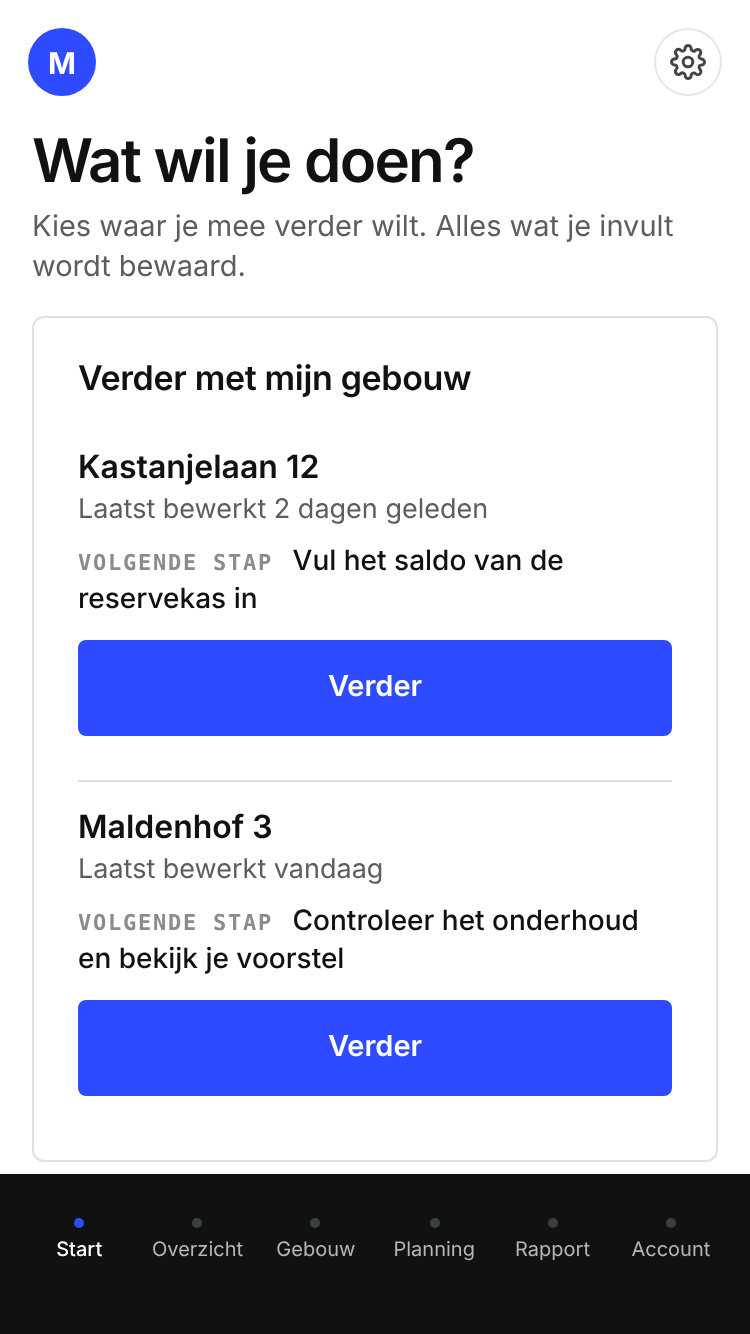
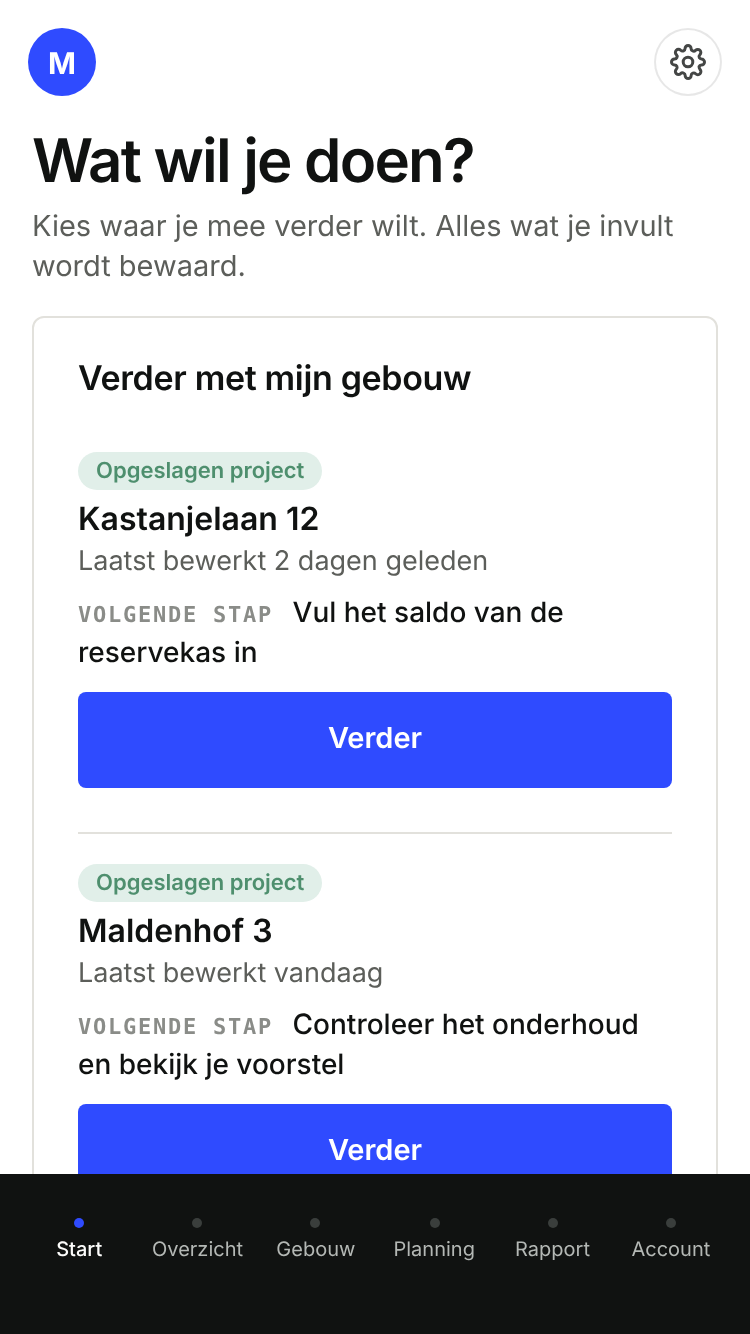
Fix: laadscherm bij 'Nieuw MJOP maken' bleef staan na het kiezen van een adres
Oorzaak: lookupBuilding() deed fetches zonder tijdslimiet. Antwoordt een bron (vooral de 3D BAG) niet, dan blijft de laatste laadtekst
('Dakoppervlak, gevels en hoogte berekenen uit de 3D BAG…') eeuwig staan en komt applyBuilding()/de wizard nooit aan de beurt.

- Tijdslimiet per bron (PDOK 10 s, BAG 12 s, 3D BAG 8 s) en totaal 30 s; de 3D BAG is aanvullend: zonder antwoord gaat het door met de schatting
  uit het grondvlak en meldt stap 1 dat eerlijk
- Time-out geeft een duidelijke melding en een bruikbaar zoekveld; 'Annuleren' tijdens het zoeken; een laat antwoord na annuleren/time-out
  overschrijft niets meer (lookupNr)
- render(): een fout bij het opbouwen of patchen van een scherm toont nu een melding met 'Terug naar Start' resp. valt terug op innerHTML,
  i.p.v. het vorige scherm te laten staan
- Start: 'Opgeslagen project' en 'Nieuw, nog niet opgeslagen' zijn duidelijk te onderscheiden
- test/lookup-laden.spec.js (iPhone-WebView-UA + brug): trage 3D BAG, hangende 3D BAG/BAG/PDOK, annuleren, verwarring met opgeslagen project, render-terugval

Claude-Session: https://claude.ai/code/session_01GYBR75Fb7Wtgfy81KxCUeB

Changed region(s): [[0.092, 0.3381, 0.92, 0.8913]]

diff --git a/test/lookup-laden.spec.js b/test/lookup-laden.spec.js
@@ -1,0 +1,179 @@
+'use strict';
+// Browsertest: laden na het kiezen van een adres bij 'Nieuw MJOP maken': het laadscherm verdwijnt altijd en de gebruiker komt automatisch bij 'Is dit je gebouw?'.
+// Echte supabase-js met een nagebootst Supabase-netwerk; ingelogd via een vooraf gezette sessie in de opslag.
+//   python3 -m http.server 8964 &  ;  MJOP_TEST_BASE=http://localhost:8964/ MJOP_SUPABASE_SDK=/pad/supabase.js node test/lookup-laden.spec.js
+let chromium;
+try { chromium = require('playwright').chromium; } catch (e) { chromium = require('/opt/node22/lib/node_modules/playwright').chromium; }
+var fs = require('fs');
+var BASE = process.env.MJOP_TEST_BASE || 'http://localhost:8964/';
+var CHROMIUM_PATH = process.env.MJOP_CHROMIUM || '/opt/pw-browsers/chromium';
+var SDK_URL = 'https://cdn.jsdelivr.net/npm/@supabase/supabase-js@2.116.0/dist/umd/supabase.js';
+var SDK_FILE = process.env.MJOP_SUPABASE_SDK || null;
+var SHOTS = process.env.MJOP_SHOTS || null;
+var TEST_HOST = 'testproject0000000000.supabase.co';
+var TEST_CONFIG = "window.SUPABASE_CONFIG = { url: 'https://" + TEST_HOST + "', anonKey: 'sb_publishable_TESTKEYabcdefghijklmnop' };";
+var CORS = { 'access-control-allow-origin': '*', 'access-control-allow-headers': '*', 'access-control-allow-methods': 'GET,POST,PUT,PATCH,DELETE,OPTIONS' };
+var checks = [];
+function check(name, ok, detail) { checks.push([name, !!ok, detail]); }
+function b64u(o) { return Buffer.from(JSON.stringify(o)).toString('base64').replace(/=+$/, '').replace(/\+/g, '-').replace(/\//g, '_'); }
+function session() {
+  var jwt = b64u({ alg: 'HS256' }) + '.' + b64u({ sub: 'u1', role: 'authenticated', exp: Math.floor(Date.now() / 1000) + 3600 }) + '.c2ln';
+  return { access_token: jwt, token_type: 'bearer', expires_in: 3600, expires_at: Math.floor(Date.now() / 1000) + 3600, refresh_token: 'r-abc',
+    user: { id: 'u1', aud: 'authenticated', role: 'authenticated', email: 'test@example.org', app_metadata: {}, user_metadata: {}, created_at: '2026-01-01T00:00:00Z' } };
+}
+var daysAgo = function (n) { return new Date(Date.now() - n * 86400000).toISOString(); };
+
+async function newPage(ctx, o) {
+  o = o || {};
+  var page = await ctx.newPage(), st = { errors: [], plansUrls: [] };
+  page.on('pageerror', function (e) { st.errors.push(String(e)); });
+  await page.route(/^https?:\/\/(?!localhost)/, function (route) {
+    var req = route.request(), url = req.url();
+    if (url === SDK_URL) return SDK_FILE ? route.fulfill({ status: 200, contentType: 'application/javascript', body: fs.readFileSync(SDK_FILE), headers: { 'access-control-allow-origin': '*' } }) : route.continue();
+    if (url.indexOf('https://' + TEST_HOST + '/') === 0) {
+      if (req.method() === 'OPTIONS') return route.fulfill({ status: 204, headers: CORS });
+      var j = function (status, body) { return route.fulfill({ status: status, contentType: 'application/json', headers: CORS, body: JSON.stringify(body) }); };
+      if (/\/auth\/v1\/user/.test(url)) return j(200, session().user);
+      if (/\/rest\/v1\/saved_plans/.test(url)) {
+        st.plansUrls.push(url);
+        if (/[?&]id=eq\./.test(url)) return j(200, { id: 'p1', state: o.blob });
+        if (o.rejectAlias && /invul/.test(url)) return j(400, { message: 'column not found' });
+        return j(200, o.plans || []);
+      }
+      if (/\/rest\/v1\//.test(url)) return j(200, null);
+      return j(200, {});
+    }
+    return route.abort();
+  });
+  await page.route('**/src/config.js', function (route) { route.fulfill({ status: 200, contentType: 'application/javascript', body: TEST_CONFIG }); });
+  var lon = 4.9, lat = 52.37, d = 0.0001;
+  await page.route('**/locatieserver/search/v3_1/suggest**', function (r) { r.fulfill({ contentType: 'application/json', body: JSON.stringify({ response: { docs: [{ id: 'adr-1', weergavenaam: 'Teststraat 1, 1000AA Amsterdam' }] } }) }); });
+  await page.route('**/locatieserver/search/v3_1/lookup**', function (r) {
+    if (o.mode && o.mode.pdok === 'hang') return;
+    if (o.mode && o.mode.pdok === 'slow') return setTimeout(function () { r.fulfill({ contentType: 'application/json', body: JSON.stringify({ response: { docs: [{ weergavenaam: 'Teststraat 1, 1000AA Amsterdam', centroide_ll: 'POINT(4.9 52.37)' }] } }) }); }, 2000); r.fulfill({ contentType: 'application/json', body: JSON.stringify({ response: { docs: [{ weergavenaam: 'Teststraat 1, 1000AA Amsterdam', centroide_ll: 'POINT(' + lon + ' ' + lat + ')' }] } }) }); });
+  await page.route('**/kadaster/bag/ogc/v2/collections/pand/items**', function (r) {
+    if (o.mode && o.mode.bag === 'hang' && !o.state.fixed) return;
+    var ring = [[lon - d, lat - d], [lon + d, lat - d], [lon + d, lat + d], [lon - d, lat + d], [lon - d, lat - d]];
+    r.fulfill({ contentType: 'application/json', body: JSON.stringify({ features: [{ geometry: { type: 'Polygon', coordinates: [ring] }, properties: { identificatie: '0363100012345678', bouwjaar: 1972, gebruiksdoel: 'woonfunctie', aantal_verblijfsobjecten: 12 } }] }) });
+  });
+  await page.route('**/api.3dbag.nl/**', function (r) {
+    if (o.mode && o.mode.d3 === 'hang') return;
+    if (o.mode && o.mode.d3 === 'slow') return setTimeout(function () { r.fulfill({ contentType: 'application/json', body: JSON.stringify({ feature: { CityObjects: { 'NL.IMBAG.Pand.0363100012345678': { attributes: { b3_opp_dak_plat: 312.64, b3_opp_dak_schuin: 0, b3_opp_buitenmuur: 1099.7, b3_opp_grond: 318.2, b3_bouwlagen: 4, b3_dak_type: 'horizontal', b3_h_dak_max: 13.4, b3_h_maaiveld: 0.6 } } } } }) }); }, 2500);
+    r.fulfill({ contentType: 'application/json', body: JSON.stringify({ feature: { CityObjects: { 'NL.IMBAG.Pand.0363100012345678': { attributes: { b3_opp_dak_plat: 312.64, b3_opp_dak_schuin: 0, b3_opp_buitenmuur: 1099.7, b3_opp_grond: 318.2, b3_bouwlagen: 4, b3_dak_type: 'horizontal', b3_h_dak_max: 13.4, b3_h_maaiveld: 0.6 } } } } }) });
+  });
+  if (o.loggedIn) await page.addInitScript(function (s) { try { localStorage.setItem('sb-testproject0000000000-auth-token', JSON.stringify(s)); } catch (e) {} }, session());
+  return { page: page, st: st };
+}
+async function text(page) { return page.evaluate(function () { return document.body.innerText; }); }
+async function shot(page, name) { if (SHOTS) await page.screenshot({ path: SHOTS + '/' + name + '.png' }); }
+async function fresh(page) { await page.evaluate(function () { sessionStorage.clear(); }); await page.goto(BASE + 'index.html'); await page.waitForTimeout(900); }
+async function click(page, sel) { await page.evaluate(function (s) { var e = document.querySelector(s); if (e) e.click(); }, sel); await page.waitForTimeout(250); }
+
+
+var UA = 'Mozilla/5.0 (iPhone; CPU iPhone OS 17_0 like Mac OS X) AppleWebKit/605.1.15 (KHTML, like Gecko) Mobile/15E148 MJOPLiveApp/1';
+var PLANS = [{ id: 'p1', label: 'Teststraat 1, 1000AA Amsterdam', adres: 'Teststraat 1, 1000AA Amsterdam', updated_at: new Date().toISOString(), invul: { fonds: true, bijdrage: true } }];
+var LOADER = /Pand opzoeken|Bouwjaar en appartementen|Dakoppervlak, gevels en hoogte/;
+
+// Opent de app (iPhone-WebView: app-UA + brug) op de adreszoeker van "Nieuw MJOP maken" en kiest het adres.
+async function openAndPick(browser, o, limits) {
+  var ctx = await browser.newContext({ viewport: { width: 390, height: 844 }, isMobile: true, hasTouch: true, userAgent: UA });
+  o.state = o.state || {};
+  var a = await newPage(ctx, Object.assign({ loggedIn: true, plans: PLANS }, o));
+  var page = a.page;
+  await page.addInitScript(function (l) { window.webkit = { messageHandlers: { mjopNative: { postMessage: function () {} } } }; if (l) window.__mjopLookupMs = l; }, limits || null);
+  await page.goto(BASE + 'index.html'); await page.waitForTimeout(800);
+  await click(page, '[data-act=wizard-start]');
+  await page.fill('#addr-search', 'Teststraat 1'); await page.dispatchEvent('#addr-search', 'input');
+  await page.waitForSelector('.suggest-row', { timeout: 5000 });
+  await page.evaluate(function () { document.querySelector('.suggest-row').click(); });
+  return { ctx: ctx, page: page, a: a };
+}
+
+async function main() {
+  var browser = await chromium.launch({ executablePath: CHROMIUM_PATH });
+  var t;
+
+  // A. trage maar succesvolle 3D BAG (> 1,8 s, dus de laatste laadtekst verschijnt): daarna verdwijnt het laadscherm vanzelf
+  var r = await openAndPick(browser, { mode: { d3: 'slow' } });
+  await r.page.waitForTimeout(2200);
+  t = await text(r.page);
+  check('A. onderweg: laadtekst "Dakoppervlak, gevels en hoogte berekenen…" zichtbaar', /Dakoppervlak, gevels en hoogte/.test(t));
+  await r.page.waitForSelector('.wz-voortgang', { timeout: 8000 });
+  t = await text(r.page);
+  check('A. daarna verdwijnt het laadscherm automatisch', !LOADER.test(t), t.slice(0, 120));
+  check('A. automatisch naar "Is dit je gebouw?" met adres en gegevens (zonder extra tik)', /Is dit je gebouw\?/.test(t) && /Teststraat 1/.test(t) && /Stap 1 van 4/i.test(t) && /Uit de BAG/i.test(t));
+  check('A. geen melding "geen 3D BAG" als de 3D BAG wel antwoordde', !(await r.page.$('[data-wz-geen-3d]')));
+  var st = await r.page.evaluate(function () { return JSON.parse(sessionStorage.getItem('mjop-worksessie')); });
+  check('A. werkstand: scherm app, tab wizard, stap 1, gebouw staat in het plan', st.screen === 'app' && st.tab === 'wizard' && st.plan.wizard && st.plan.wizard.stap === 1 && /Teststraat 1/.test(st.plan.building.adres), JSON.stringify([st.screen, st.tab]));
+  await click(r.page, '[data-act=wizard-volgende]');
+  check('A. bevestigen gaat door naar stap 2', /Controleer je gebouw/.test(await text(r.page)));
+  check('A. geen JavaScript-fouten', r.a.st.errors.length === 0, r.a.st.errors.join('; '));
+  await r.ctx.close();
+
+  // B. 3D BAG antwoordt nooit: na de tijdslimiet toch "Is dit je gebouw?" met een eerlijke melding
+  r = await openAndPick(browser, { mode: { d3: 'hang' } }, { d3: 1200 });
+  await r.page.waitForSelector('.wz-voortgang', { timeout: 8000 });
+  t = await text(r.page);
+  check('B. 3D BAG hangt: laadscherm verdwijnt en "Is dit je gebouw?" verschijnt', !LOADER.test(t) && /Is dit je gebouw\?/.test(t));
+  check('B. eerlijke melding: 3D BAG gaf geen gegevens, dak en gevel geschat', !!(await r.page.$('[data-wz-geen-3d]')) && /geschat uit het grondvlak/.test(t));
+  await r.page.screenshot({ path: (process.env.MJOP_SHOTS || '/tmp') + '/laden-3dbag-hangt.png' });
+  await r.ctx.close();
+
+  // C. BAG-pand hangt: duidelijke foutmelding, laadscherm weg, opnieuw proberen werkt
+  var o = { mode: { bag: 'hang' }, state: { fixed: false } };
+  r = await openAndPick(browser, o, { bag: 1000 });
+  await r.page.waitForSelector('.notice.error', { timeout: 8000 });
+  t = await text(r.page);
+  check('C. BAG hangt: foutmelding "duurt te lang", geen laadscherm meer', /duurt te lang/.test(t) && !LOADER.test(t), t.slice(0, 200));
+  check('C. zoekveld blijft bruikbaar', !!(await r.page.$('#addr-search')));
+  o.state.fixed = true;
+  await r.page.fill('#addr-search', 'Teststraat 1'); await r.page.dispatchEvent('#addr-search', 'input');
+  await r.page.waitForSelector('.suggest-row', { timeout: 5000 });
+  await r.page.evaluate(function () { document.querySelector('.suggest-row').click(); });
+  await r.page.waitForSelector('.wz-voortgang', { timeout: 8000 });
+  check('C. opnieuw proberen lukt en brengt bij "Is dit je gebouw?"', /Is dit je gebouw\?/.test(await text(r.page)));
+  await r.ctx.close();
+
+  // D. alles hangt: totale tijdslimiet
+  r = await openAndPick(browser, { mode: { pdok: 'hang' } }, { pdok: 60000, totaal: 1500 });
+  await r.page.waitForSelector('.notice.error', { timeout: 8000 });
+  check('D. totale tijdslimiet: melding i.p.v. eeuwig laden', /duurt te lang/.test(await text(r.page)) && !LOADER.test(await text(r.page)));
+  await r.ctx.close();
+
+  // E. annuleren: een later binnenkomend antwoord overschrijft niets
+  r = await openAndPick(browser, { mode: { pdok: 'slow' } });
+  await r.page.waitForSelector('[data-act=annuleer-zoeken]', { timeout: 3000 });
+  await click(r.page, '[data-act=annuleer-zoeken]');
+  check('E. annuleren: laadscherm weg, zoekveld terug', !LOADER.test(await text(r.page)) && !!(await r.page.$('#addr-search')));
+  await r.page.waitForTimeout(4500);
+  t = await text(r.page);
+  check('E. een laat antwoord na annuleren verandert niets (geen wizard, nog op het adresscherm)', !(await r.page.$('.wz-voortgang')) && !!(await r.page.$('#addr-search')), t.slice(0, 100));
+  await r.ctx.close();
+
+  // F. gevonden gebouw (nog niet opgeslagen) wordt niet verward met een opgeslagen project met hetzelfde adres
+  r = await openAndPick(browser, {});
+  await r.page.waitForSelector('.wz-voortgang', { timeout: 8000 });
+  await click(r.page, '[data-act=wizard-stop]');
+  var badges = await r.page.evaluate(function () { return Array.prototype.slice.call(document.querySelectorAll('[data-st-soort]')).map(function (e) { return e.dataset.stSoort + ':' + e.textContent.trim(); }); });
+  check('F. Start toont het nieuwe gebouw apart: "Nieuw, nog niet opgeslagen" naast "Opgeslagen project"', badges.length === 2 && badges.some(function (b) { return /^nieuw:Nieuw, nog niet opgeslagen/.test(b); }) && badges.some(function (b) { return /^opgeslagen:Opgeslagen project/.test(b); }), JSON.stringify(badges));
+  t = await text(r.page);
+  check('F. het nieuwe gebouw biedt het hervatten van de stappen, het opgeslagen project niet', /Ga verder met de begeleide stappen \(stap 1 van 4/i.test(t));
+  await r.ctx.close();
+
+  // G. render-terugval: faalt het bijwerken van de DOM, dan wordt het nieuwe scherm toch getoond
+  var ctx = await browser.newContext({ viewport: { width: 390, height: 844 }, isMobile: true, hasTouch: true, userAgent: UA });
+  var g = await newPage(ctx, { loggedIn: true, plans: [], state: {} });
+  await g.page.addInitScript(function () { window.webkit = { messageHandlers: { mjopNative: { postMessage: function () {} } } }; });
+  await g.page.goto(BASE + 'index.html'); await g.page.waitForTimeout(800);
+  await g.page.evaluate(function () { var orig = window.MJOPDomPatch.patch; var n = 0; window.MJOPDomPatch.patch = function (a, b) { if (n++ === 0) throw new Error('patch kapot'); return orig(a, b); }; });
+  await click(g.page, '[data-act=wizard-start]');
+  check('G. patch faalt eenmalig: het nieuwe scherm (adreszoeker) staat er toch', !!(await g.page.$('#addr-search')) && /Stap 1 van 4/i.test(await text(g.page)));
+  await ctx.close();
+
+  await browser.close();
+  var failed = checks.filter(function (c) { return !c[1]; });
+  checks.forEach(function (c) { console.log((c[1] ? 'OK   - ' : 'FAIL - ') + c[0] + (c[1] ? '' : ' [' + c[2] + ']')); });
+  console.log(failed.length ? failed.length + ' controle(s) mislukt.' : 'Alle controles geslaagd.');
+  process.exit(failed.length ? 1 : 0);
+}
+main().catch(function (e) { console.error(e); process.exit(2); });

diff --git a/src/app.js b/src/app.js
@@ -324,10 +324,30 @@
     });
   }
 
+  // Maximale wachttijd per bron (ms). Een verzoek dat nooit antwoordt (trage verbinding in de WebView, hangende server) liet het laadscherm
+  // eeuwig staan; nu loopt elke stap af. De 3D BAG is aanvullend: zonder antwoord rekent de app met de schatting uit het grondvlak.
+  function lookupLimits() {
+    var o = (typeof window !== 'undefined' && window.__mjopLookupMs) || {};
+    return { pdok: o.pdok || 10000, bag: o.bag || 12000, d3: o.d3 || 8000, totaal: o.totaal || 30000 };
+  }
+  // JSON ophalen met tijdslimiet over het hele verzoek (incl. lezen van de body). nullOnHttpError: HTTP-fout geeft null i.p.v. een fout.
+  function fetchJsonTimeout(url, ms, nullOnHttpError) {
+    return new Promise(function (resolve, reject) {
+      var ctl = typeof AbortController === 'function' ? new AbortController() : null;
+      var klaar = false;
+      var t = setTimeout(function () { if (klaar) return; klaar = true; try { if (ctl) ctl.abort(); } catch (e) {} reject(new Error('timeout')); }, ms);
+      fetch(url, ctl ? { signal: ctl.signal } : undefined).then(function (r) {
+        if (!r.ok && nullOnHttpError) return null;
+        return r.json();
+      }).then(function (j) { if (klaar) return; klaar = true; clearTimeout(t); resolve(j); },
+        function (e) { if (klaar) return; klaar = true; clearTimeout(t); reject(e); });
+    });
+  }
+
   function lookupBuilding(id, naam) {
-    return fetch('https://api.pdok.nl/bzk/locatieserver/search/v3_1/lookup?id='
-      + encodeURIComponent(id) + '&fl=weergavenaam,centroide_ll,postcode,woonplaatsnaam')
-      .then(function (r) { return r.json(); })
+    var lim = lookupLimits();
+    return fetchJsonTimeout('https://api.pdok.nl/bzk/locatieserver/search/v3_1/lookup?id='
+      + encodeURIComponent(id) + '&fl=weergavenaam,centroide_ll,postcode,woonplaatsnaam', lim.pdok)
       .then(function (lj) {
         var doc = lj.response.docs[0];
         var m = /POINT\(([-0-9.]+) ([-0-9.]+)\)/.exec(doc.centroide_ll);
@@ -335,8 +355,7 @@
         var lon = parseFloat(m[1]), lat = parseFloat(m[2]);
         var d = 0.00018;
         var bbox = [lon - d, lat - d, lon + d, lat + d].join(',');
-        return fetch('https://api.pdok.nl/kadaster/bag/ogc/v2/collections/pand/items?f=json&limit=20&bbox=' + bbox)
-          .then(function (r) { return r.json(); })
+        return fetchJsonTimeout('https://api.pdok.nl/kadaster/bag/ogc/v2/collections/pand/items?f=json&limit=20&bbox=' + bbox, lim.bag)
           .then(function (pj) {
             var feats = (pj.features || []).filter(function (f) { return f.geometry; });
             if (!feats.length) throw new Error('geen pand gevonden op dit adres');
@@ -354,8 +373,7 @@
             var afterD3 = Promise.resolve(null);
             var d3RawCapture = null;
             if (p.identificatie) {
-              afterD3 = fetch('https://api.3dbag.nl/collections/pand/items/NL.IMBAG.Pand.' + p.identificatie)
-                .then(function (tr) { return tr.ok ? tr.json() : null; })
+              afterD3 = fetchJsonTimeout('https://api.3dbag.nl/collections/pand/items/NL.IMBAG.Pand.' + p.identificatie, lim.d3, true)
                 .then(function (tj) {
                   if (!tj) return null;
                   var co = tj.feature.CityObjects['NL.IMBAG.Pand.' + p.identificatie];
@@ -1524,16 +1542,31 @@
       try { focusInfo.start = active.selectionStart; focusInfo.end = active.selectionEnd; } catch (e) {}
     }
     var screen = currentScreen();
-    var mainHtml;
-    if (screen === 'marketing') mainHtml = renderMarketing();
-    else if (screen === 'login') mainHtml = renderLoginScreen();
-    else if (screen === 'onboarding') mainHtml = renderOnboarding();
-    else mainHtml = renderApp();
-    var printHtml = (screen === 'app' && state.building) ? renderPrintReport() : '';
+    var mainHtml, printHtml = '';
+    try {
+      if (screen === 'marketing') mainHtml = renderMarketing();
+      else if (screen === 'login') mainHtml = renderLoginScreen();
+      else if (screen === 'onboarding') mainHtml = renderOnboarding();
+      else mainHtml = renderApp();
+      printHtml = (screen === 'app' && state.building) ? renderPrintReport() : '';
+    } catch (e) {
+      // Een fout bij het opbouwen van een scherm liet vroeger het vorige scherm (bijv. een laadscherm) staan zonder uitleg. Nu altijd een melding met een weg terug.
+      try { console.error('render', e); } catch (e2) {}
+      mainHtml = '<div class="entry-screen"><div class="ov-card st-card" data-render-fout role="alert"><h2 class="ov-h2">Dit scherm kon niet worden getoond</h2><p class="ov-hint">Je gegevens zijn niet kwijt. Ga terug naar Start en probeer het opnieuw.</p><button type="button" class="ov-btn st-groot" data-act="render-herstel">Terug naar Start</button></div></div>';
+      printHtml = '';
+    }
     // Geen root.innerHTML = …: dat vernietigde het invoerveld waarin je typt bij elke toetsaanslag en elke resize (iOS: toetsenbord valt terug naar ABC,
     // cursor springt). MJOPDomPatch werkt de bestaande DOM bij en laat het actieve veld ongemoeid (zie src/dom-patch.js).
     lastRenderedScreen = screen;
-    var patched = window.MJOPDomPatch.patch(root, '<div class="screen-view">' + mainHtml + '</div>' + printHtml);
+    var patched;
+    try {
+      patched = window.MJOPDomPatch.patch(root, '<div class="screen-view">' + mainHtml + '</div>' + printHtml);
+    } catch (e) {
+      // Mislukt het bijwerken van de bestaande DOM (bijv. een WebView-eigenaardigheid), dan toch het nieuwe scherm tonen i.p.v. het oude te laten staan.
+      try { console.error('dom-patch', e); } catch (e2) {}
+      root.innerHTML = '<div class="screen-view">' + mainHtml + '</div>' + printHtml;
+      patched = { pendingSync: false };
+    }
     syncAfterBlur = patched.pendingSync;
     // Na elke render() alsnog tabindex/role toevoegen aan wat dat nog mist,
     // i.p.v. elke afzonderlijke data-act-plek in de render*()-functies
@@ -2126,7 +2159,7 @@
     if (s.gezocht && !s.sug.length && !s.bezig && !s.fout) {
       html += '<div class="notice">Geen adressen gevonden voor "' + esc(s.q) + '". Controleer de spelling, of bekijk eerst het voorbeeldgebouw.</div>';
     }
-    if (s.bezig) html += '<div class="notice">' + esc(s.bezigTekst) + '</div>';
+    if (s.bezig) html += '<div class="notice" data-zoeken-bezig role="status">' + esc(s.bezigTekst) + ' <span class="linkish" role="button" tabindex="0" data-act="annuleer-zoeken">Annuleren</span></div>';
     if (s.fout) html += '<div class="notice error">' + esc(s.fout) + '</div>';
 
     html += '<div class="entry-alt">';
@@ -3055,7 +3088,7 @@
   function startProjectRij(pr, na, knop) {
     if (!na && pr.wizard) na = 'wizard';
     var html = '<div class="st-proj">';
-    html += '<div class="st-proj-tekst"><div class="st-proj-adres">' + esc(pr.adres) + '</div>';
+    html += '<div class="st-proj-tekst"><span class="st-badge ' + (pr.id ? 'opgeslagen' : 'nieuw') + '" data-st-soort="' + (pr.id ? 'opgeslagen' : 'nieuw') + '">' + (pr.id ? 'Opgeslagen project' : 'Nieuw, nog niet opgeslagen') + '</span><div class="st-proj-adres">' + esc(pr.adres) + '</div>';
     html += '<div class="st-proj-meta">' + (pr.bijgewerkt ? 'Laatst bewerkt ' + esc(relatieveDatum(pr.bijgewerkt)) : 'Nog niet opgeslagen') + '</div>';
     html += '<div class="st-proj-volgende"><span>Volgende stap</span> ' + esc(volgendeStapTekst(pr.plan)) + '</div></div>';
     if (pr.id) html += '<button type="button" class="ov-btn st-proj-knop" data-act="open-plan" data-id="' + pr.id + '"' + (na ? ' data-na="' + na + '"' : '') + '>' + knop + '</button>';
@@ -3176,6 +3209,7 @@
       html += feitRij('Appartementen', String(b.units), vb ? 'voorbeeld' : (b.unitsBron != null && b.units !== b.unitsBron ? 'zelf' : 'bekend'));
       html += feitRij('Dakoppervlak', b.dakM2 ? Math.round(b.dakM2) + ' m²' : '—', b.dakM2 ? (vb ? 'voorbeeld' : 'geschat') : 'onbekend');
       html += feitRij('Gevel', b.gevelM2 ? Math.round(b.gevelM2) + ' m²' : '—', b.gevelM2 ? (vb ? 'voorbeeld' : 'geschat') : 'onbekend');
+      if (!vb && !b.d3) html += '<p class="ov-hint" data-wz-geen-3d>De 3D BAG gaf geen gegevens voor dit pand (of antwoordde niet op tijd). Dak en gevel zijn daarom geschat uit het grondvlak.</p>';
       html += '</section>';
       html += '<div class="wz-voet"><button type="button" class="ov-btn st-groot" data-act="wizard-volgende">Ja, dit is mijn gebouw</button>';
       html += '<button type="button" class="ov-btn secondary st-groot" data-act="wijzig-adres">Ander adres zoeken</button></div>';
@@ -4909,6 +4943,10 @@
     // Het live-doorzoeken tijdens het typen (BINDS['addr-q']) blijft de
     // eigenlijke weg naartoe; dit is enkel de expliciete knop ernaast die
     // dezelfde zoekopdracht direct uitvoert i.p.v. na de debounce.
+    'render-herstel': function () { state.screen = state.session ? 'app' : 'onboarding'; state.tab = 'start'; state.activeElementId = null; render(); },
+    'annuleer-zoeken': function () {
+      var s = state.onboarding; s.lookupNr = (s.lookupNr || 0) + 1; s.bezig = false; s.fout = ''; render();
+    },
     'zoek-adres': function () {
       var s = state.onboarding;
       clearTimeout(searchTimer);
@@ -4920,6 +4958,7 @@
     'kies-adres': function (d) {
       var s = state.onboarding;
       s.sug = []; s.q = d.naam; s.bezig = true; s.bezigTekst = 'Pand opzoeken in de BAG…'; s.fout = '';
+      var lookupNr = s.lookupNr = (s.lookupNr || 0) + 1;     // een geannuleerde of verlopen zoekopdracht mag later niets meer overschrijven
       render();
       // Puur cosmetisch: dit tikt alleen de bezigTekst door terwijl
       // lookupBuilding() draait, los van de echte fetch-keten daarbinnen
@@ -4930,18 +4969,26 @@
         setTimeout(function () { if (state.onboarding === s && s.bezig) { s.bezigTekst = 'Bouwjaar en appartementen ophalen uit de BAG…'; render(); } }, 700),
         setTimeout(function () { if (state.onboarding === s && s.bezig) { s.bezigTekst = 'Dakoppervlak, gevels en hoogte berekenen uit de 3D BAG…'; render(); } }, 1800),
       ];
+      var mislukt = function (err) {
+        stapTimers.forEach(clearTimeout); clearTimeout(watchdog);
+        if (s.lookupNr !== lookupNr) return;
+        s.lookupNr++;
+        s.bezig = false;
+        var timeout = err && err.message === 'timeout';
+        s.fout = timeout ? 'Het opzoeken duurt te lang. Controleer je verbinding en probeer het opnieuw.'
+          : 'Dit adres lukt niet: ' + (err && err.message ? err.message : 'onbekende fout') + '. Probeer een ander huisnummer, of begin met een voorbeeldgebouw.';
+        render();
+      };
+      var watchdog = setTimeout(function () { mislukt(new Error('timeout')); }, lookupLimits().totaal);
       lookupBuilding(d.id, d.naam).then(function (building) {
-        stapTimers.forEach(clearTimeout);
+        stapTimers.forEach(clearTimeout); clearTimeout(watchdog);
+        if (s.lookupNr !== lookupNr) return;
         s.bezig = false;
         applyBuilding(building);
+        // Begeleide stappen: het gevonden gebouw wordt eerst bevestigd ("Is dit je gebouw?").
         if (state.wizard) { state.wizard.stap = 1; state.tab = 'wizard'; }
         render();
-      }).catch(function (err) {
-        stapTimers.forEach(clearTimeout);
-        s.bezig = false;
-        s.fout = 'Dit adres lukt niet: ' + (err && err.message ? err.message : 'onbekende fout') + '. Probeer een ander huisnummer, of begin met een voorbeeldgebouw.';
-        render();
-      });
+      }).catch(mislukt);
     },
     'set-tab': function (d) {
       state.tab = d.tab; state.activeElementId = null; state.confirmDeleteId = null;

diff --git a/src/style.css b/src/style.css
@@ -1514,3 +1514,7 @@ input[type=range].ov-slider::-moz-range-thumb { width: 14px; height: 14px; borde
 .kl-lijst { margin: 10px 0 0; padding: 0 0 0 18px; font: 400 15px/1.55 var(--font); }
 .kl-lijst li + li { margin-top: 6px; }
 .kl-card .ov-hint { margin: 6px 0 0; }
+
+.st-badge { display: inline-block; margin-bottom: 4px; padding: 3px 9px; border-radius: 999px; font: 600 11px/1.2 var(--font); background: var(--muted-surface); color: var(--text-2); }
+.st-badge.nieuw { background: var(--warn-bg); color: var(--warn-fg); }
+.st-badge.opgeslagen { background: var(--good-bg); color: var(--good-fg); }
